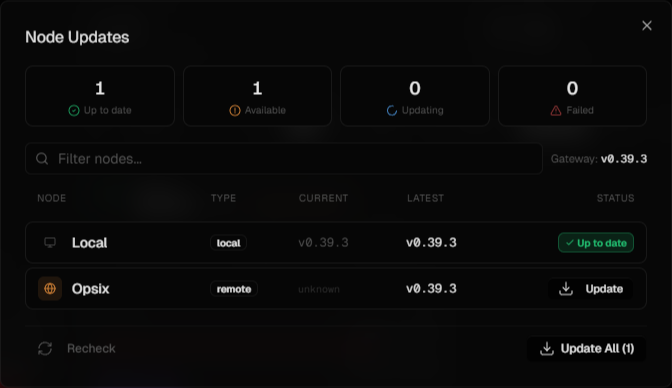
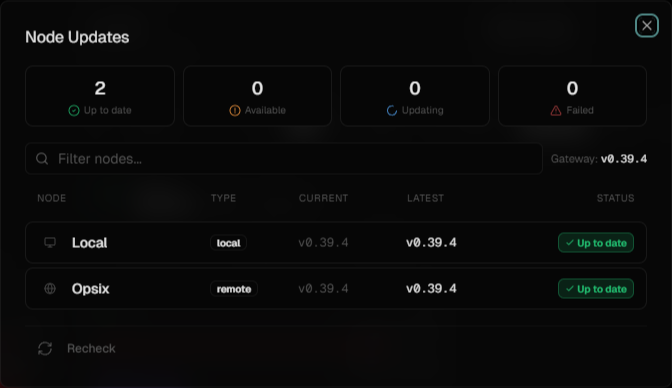
fix(fleet): resolve version detection using package.json over stale generated constant
resolveVersion() previously returned the build-time SENCHO_VERSION
constant without checking the root package.json. When a branch fell
behind a release-please version bump, the generated constant was stale,
causing remote nodes to show "unknown" version and false "Update
available" badges. The function now walks up to the root package.json
first (authoritative source) and falls back to the generated constant
only if the walk fails.

diff --git a/backend/src/services/CapabilityRegistry.ts b/backend/src/services/CapabilityRegistry.ts
@@ -43,9 +43,9 @@ export function isValidVersion(v: string | null | undefined): v is string {
 
 // Resolved once per process at import time, then cached.
 function resolveVersion(): string | null {
-  if (SENCHO_VERSION !== '0.0.0-dev') return SENCHO_VERSION;
-
-  // Fallback for manual ts-node runs without the predev hook.
+  // Primary: walk up to find the root package.json (always authoritative).
+  // The generated SENCHO_VERSION constant can be stale when a branch falls
+  // behind a release-please version bump, so we prefer the live value.
   let dir = __dirname;
   for (let i = 0; i < 5; i++) {
     const candidate = path.join(dir, 'package.json');
@@ -55,6 +55,8 @@ function resolveVersion(): string | null {
     } catch { /* not found, keep walking */ }
     dir = path.dirname(dir);
   }
+  // Fallback: build-time constant (may be stale in dev, but correct in Docker)
+  if (SENCHO_VERSION !== '0.0.0-dev') return SENCHO_VERSION;
   console.warn('[CapabilityRegistry] Could not resolve Sencho version from any source');
   return null;
 }

diff --git a/CHANGELOG.md b/CHANGELOG.md
@@ -15,6 +15,7 @@ and this project adheres to [Semantic Versioning](https://semver.org/spec/v2.0.0
 
 ### Fixed
 
+* **fleet:** fix version detection returning stale value from `generated/version.ts` instead of the authoritative `package.json`. This caused remote nodes to show "unknown" version and false "Update available" badges when both nodes were on the same version. `resolveVersion()` now reads the root `package.json` first and only falls back to the build-time constant if the walk fails.
 * **fleet:** fix permanently stuck "Timed out" / "Failed" badges after node update attempts. The in-memory update tracker now supports clearing via a new DELETE endpoint, and terminal states are automatically clearable through the Recheck button.
 * **fleet:** fix update completion detection for remote nodes that cannot report their version. The gateway now uses three completion signals: version change, process restart detection (`startedAt`), and offline/online detection (node went unreachable during update and came back). This eliminates false timeouts on nodes running older Sencho versions.
 * **fleet:** fix 409 race condition where retrying a timed-out update was rejected because the tracker still showed "updating". The POST trigger now detects expired timeouts and allows re-triggering.
